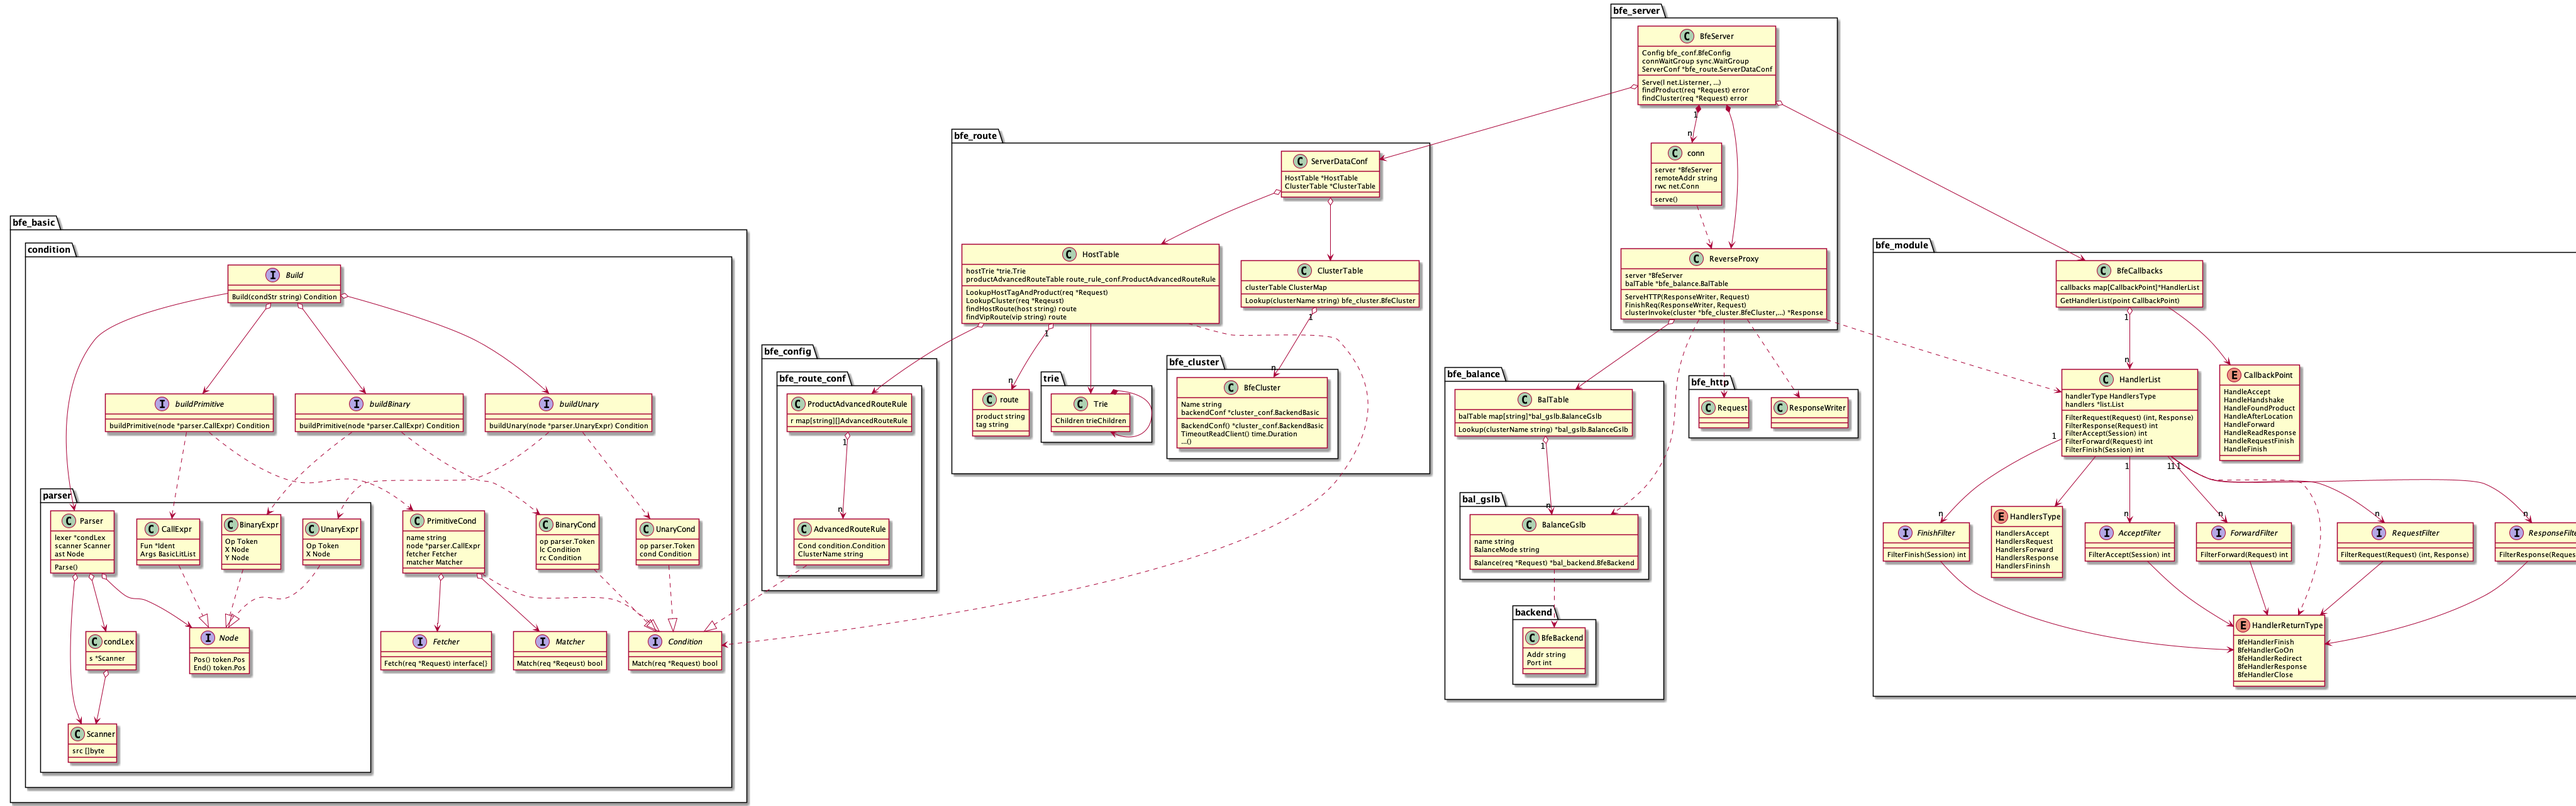
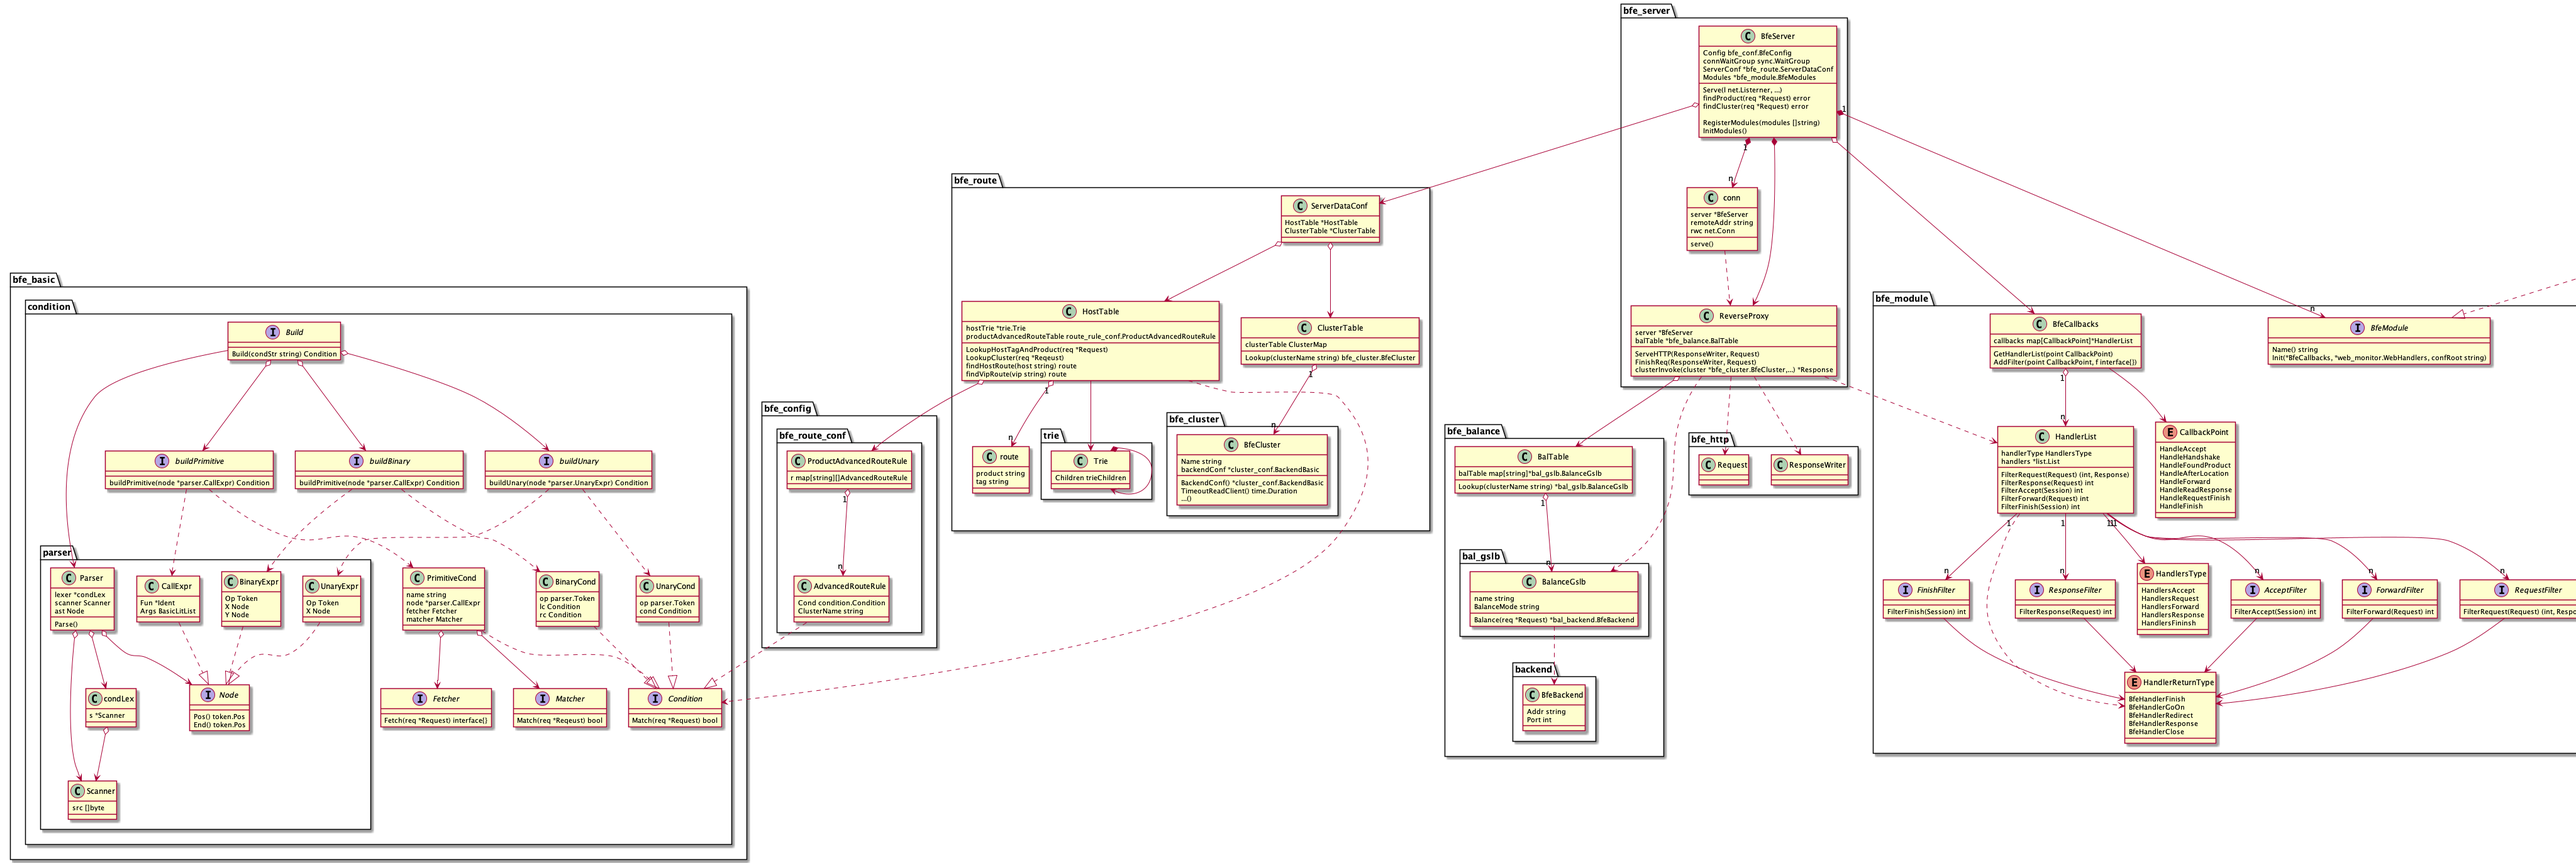
update bfe

diff --git a/api_gateway/API_Gateway.md b/api_gateway/API_Gateway.md
@@ -82,8 +82,15 @@
 
 ### 模块插件机制
 
-参考章节：[模块框架](https://github.com/baidu/bfe-book/blob/version1/implementation/model_framework/model_framework.md)
-代码模块：`bfe_module`
+**准备**
+
++ 参考章节：
+  + [模块插件机制](https://github.com/baidu/bfe-book/blob/version1/design/module/module.md)
+  + [模块框架](https://github.com/baidu/bfe-book/blob/version1/implementation/model_framework/model_framework.md)
+  + [如何开发BFE扩展模块](https://github.com/baidu/bfe-book/blob/version1/develop/how_to_write_module/how_to_write_module.md)
++ 代码模块
+  + `bfe_module`
+  + `bfe_modules`、`bfe_modules.mod_waf`
 
 **回调模型**
 
@@ -91,8 +98,149 @@ BFE通过*回调*来执行插件功能。
 
 + 回调框架(BfeCallbacks)
 + 回调点(CallbackPoint)
-+ 回调链(HandlerList)
++ 回调链(HandlerList)：实现上是个链表。
 + 回调(接口)类型：`RequestFilter`等5个回调接口。
++ 回调返回类型(没定义，暂且称之为HandlerReturnType)
+
+以下是`ReverseProxy.ServeHTTP`请求处理流程中，某个回调点的代码：
+
+```go
+	// ...
+
+	// Callback for HandleBeforeLocation
+	// srv.CallBacks是回调框架BfeCallbacks对象
+	// 获取回调点HandleBeforeLocation对应的回调链
+	hl = srv.CallBacks.GetHandlerList(bfe_module.HandleBeforeLocation)
+	if hl != nil {
+		// 依次执行回调(函数)
+		// 逻辑上，在特定回调点有特定的回调(接口)类型
+		retVal, res = hl.FilterRequest(basicReq)
+		basicReq.HttpResponse = res
+		// 根据回调返回类型进行处理
+		switch retVal {
+		case bfe_module.BfeHandlerClose:
+			// close the connection directly (with no response)
+			action = closeDirectly
+			return
+		case bfe_module.BfeHandlerFinish:
+			// close the connection after response
+			action = closeAfterReply
+			basicReq.BfeStatusCode = bfe_http.StatusInternalServerError
+			return
+		case bfe_module.BfeHandlerRedirect:
+			// ...
+```
+
+回调函数的添加实现(`AcceptFilter`示例)：
+
+```go
+// AddAcceptFilter adds accept filter to handler list.
+func (hl *HandlerList) AddAcceptFilter(f interface{}) error {
+	callback, ok := f.(func(session *bfe_basic.Session) int)
+	if !ok {
+		return fmt.Errorf("AddAcceptFilter():invalid callback func")
+	}
+
+	hl.handlers.PushBack(NewAcceptFilter(callback))
+	return nil
+}
+```
+
+上述的回调模型实现了模块可插拔，那么具体的功能模块该如何实现呢？我们继续来看。
+
+**模块**
+
+我们以非常重要的waf模块为例，深入研究一下模块内部的实现原理([WAF简介](https://zhuanlan.zhihu.com/p/97396469))。这部分内容可以按照以下3个部分进行梳理：
+
++ 模块配置
++ 回调的注册与实现
++ 模块状态
+
+waf模块配置示例：
+
+```json
+{
+    "Version": "2019-12-10184356",
+    "Config": {
+        "example_product": [
+            {
+                "Cond": "req_path_prefix_in(\"/rewrite\", false)",
+                "BlockRules": [
+	            "RuleBashCmd"
+                ]
+            }
+        ]
+    }
+}
+```
+
+大部分的模块功能都可以拆分为2部分，即：条件(`Cond`)、动作(`BlockRules`，在其它模块也叫`Actions`等)。那么，一个模块的逻辑可以描述为：如果命中条件，就执行动作。
+
+waf模块实现了`bfe_module.RequestFilter`回调：
+
+```go
+func (m *ModuleWaf) handleWaf(req *bfe_basic.Request) (int, *bfe_http.Response) {
+	// 获取RuleList
+	rules, ok := m.ruleTable.Search(req.Route.Product)
+	if !ok {
+		return bfe_module.BfeHandlerGoOn, nil
+	}
+	for _, rule := range *rules {
+		// 首先，判断条件是否命中
+		if !rule.Cond.Match(req) {
+			continue
+		}
+		m.state.CheckedReq.Inc(1)
+		// BlockRules - 拦截模式
+		for _, blockRule := range rule.BlockRules {
+			blocked, err := m.handler.HandleBlockJob(blockRule, req)
+			if err != nil {
+				m.state.BlockedRuleError.Inc(1)
+				log.Logger.Debug("ModuleWaf.handleWaf() block job err=%v, rule=%s", err, blockRule)
+				continue
+			}
+			if blocked {
+				req.ErrCode = ErrWaf
+				m.state.HitBlockedReq.Inc(1)
+				return bfe_module.BfeHandlerFinish, nil
+			}
+		}
+		// CheckRules - 观察模式
+		for _, checkRule := range rule.CheckRules {
+			// ...
+		}
+		break
+	}
+	return bfe_module.BfeHandlerGoOn, nil
+}
+```
+
+几个点：
+
++ 用到了我们之前介绍过的[条件表达式](#条件表达式)
++ waf规则的处理分为*拦截模式*(`BlockRules`)和*观察模式*(CheckRules)。这是因为waf规则上线通常需要先开启观察模式验证，后开启拦截模式拦截攻击流量。
++ waf模块状态`ModuleWafState`主要记录了各种规则命中的数据，用于统计。这个信息也非常重要，往往需要采集到后台进行统一监控。
+
+模块的注册是`bfe_module.BfeModule`接口中`Init`规定的，waf模块出了注册回调，还添加了监控。
+
+```go
+func (m *ModuleWaf) Init(cbs *bfe_module.BfeCallbacks, whs *web_monitor.WebHandlers, cr string) error {
+	// ...
+
+	// 回调注册
+	err = cbs.AddFilter(bfe_module.HandleFoundProduct, m.handleWaf)
+	if err != nil {
+		return fmt.Errorf("%s.Init(): AddFilter(m.handleWaf): %v", m.name, err)
+	}
+
+	err = web_monitor.RegisterHandlers(whs, web_monitor.WebHandleMonitor, m.monitorHandlers())
+	if err != nil {
+		return fmt.Errorf("%s.Init(): RegisterHandlers(m.monitorHandlers): %v", m.Name(), err)
+	}
+
+	// ...
+}
+```
 
 **实现细节**
 
@@ -133,7 +281,19 @@ func (t *HostTable) findHostRoute(host string) (route, error) {
 
 使用了一棵域名[前缀树](https://zhuanlan.zhihu.com/p/28891541)来查找，从根节点到叶子节点为一个完整域名。从根节点往下依次是各级[域名](https://baike.baidu.com/item/%E9%A1%B6%E7%BA%A7%E5%9F%9F%E5%90%8D/2152551)，到了叶子节点则是租户。
 
-查找算法：
+前缀树的结构：和普通的树区别在于节点的children使用了一个映射，key为前缀。
+
+```go
+type trieChildren map[string]*Trie
+
+type Trie struct {
+	Entry      interface{}
+	SplatEntry interface{} // to match xxx.xxx.*
+	Children   trieChildren
+}
+```
+
+根据完整域名(`path`)查找租户的算法：
 
 ```go
 func (t *Trie) Get(path []string) (entry interface{}, ok bool) {
@@ -190,9 +350,11 @@ func (t *HostTable) LookupCluster(req *bfe_basic.Request) error {
 
 ### 条件表达式
 
-参考章节：[BFE的路由转发机制—条件表达式](https://github.com/baidu/bfe-book/blob/version1/design/route/route.md)
-代码模块：`bfe_basic/condition`
-背景知识：[AST(抽象语法树)](https://juejin.cn/post/6844904035271573511)
+**准备**
+
++ 参考章节：[BFE的路由转发机制—条件表达式](https://github.com/baidu/bfe-book/blob/version1/design/route/route.md)
++ 代码模块：`bfe_basic/condition`
++ 背景知识：[AST(抽象语法树)](https://juejin.cn/post/6844904035271573511)
 
 **实现机制**
 
@@ -239,6 +401,35 @@ func Build(condStr string) (Condition, error) {
 
 + `parser`包*分析*部分的代码看起来像是基于`go`包改造的。
 + *条件原语*的实现：`condition.PrimitiveCond`又被拆分成`Matcher`和`Fetcher`的组合，它们分别负责参数的获取和匹配。这样可以方便将已有的对象迅速组合出新的原语。
+
+例如：
+
+```go
+// buildPrimitive builds primitive from PrimitiveCondExpr.
+// if failed, b.err is set to err, return Condition is nil
+// if success, b.err is nil
+func buildPrimitive(node *parser.CallExpr) (Condition, error) {
+	switch node.Fun.Name {
+	case "default_t":
+		return &DefaultTrueCond{}, nil
+	// ...
+	case "req_vip_in":
+		matcher, err := NewIpInMatcher(node.Args[0].Value)
+		if err != nil {
+			return nil, err
+		}
+		return &PrimitiveCond{
+			name:    node.Fun.Name,
+			node:    node,
+			fetcher: &VIPFetcher{},
+			matcher: matcher,
+		}, nil
+	case "req_vip_range":
+		// ...
+  }
+```
+
+有兴趣可以看看具体Matcher和Fetcher的实现。
 
 ### 规则
 

diff --git a/api_gateway/bfe/uml_bfe.md b/api_gateway/bfe/uml_bfe.md
@@ -161,15 +161,20 @@ package bfe_server {
         Config bfe_conf.BfeConfig
         connWaitGroup sync.WaitGroup
         ServerConf *bfe_route.ServerDataConf
+        Modules *bfe_module.BfeModules
 
         Serve(l net.Listerner, ...)
         findProduct(req *Request) error
         findCluster(req *Request) error
+
+        RegisterModules(modules []string)
+        InitModules()
     }
     BfeServer "1" *--> "n" conn
     BfeServer *--> ReverseProxy
     BfeServer o--> bfe_module.BfeCallbacks
     BfeServer o--> bfe_route.ServerDataConf
+    BfeServer "1" *--> "n" bfe_module.BfeModule
 
     class conn {
         server *BfeServer
@@ -203,10 +208,16 @@ package bfe_http {
 
 
 package bfe_module {
+    interface BfeModule {
+        Name() string
+        Init(*BfeCallbacks, *web_monitor.WebHandlers, confRoot string)
+    }
+
     class BfeCallbacks {
         callbacks map[CallbackPoint]*HandlerList
 
         GetHandlerList(point CallbackPoint)
+        AddFilter(point CallbackPoint, f interface{})
     }
     BfeCallbacks --> CallbackPoint
     BfeCallbacks "1" o--> "n" HandlerList
@@ -275,6 +286,42 @@ package bfe_module {
         BfeHandlerRedirect
         BfeHandlerResponse
         BfeHandlerClose
+    }
+}
+
+
+package mod_waf {
+    package waf_rule {
+        interface waf_rule.WafRule {
+            Init() error
+            Check(req *RuleRequestInfo) bool
+        }
+        class waf_rule.WafRuleTable {
+            rules map[string]WafRule
+            GetRule(ruleName string) WafRule
+        }
+        waf_rule.WafRuleTable "1" o--> "n" waf_rule.WafRule
+    }
+
+    class mod_waf.ModuleWaf {
+        name string
+        conf *ConfModWaf
+        handler *wafHandler
+        state ModuleWafState
+        ruleTable *WarRuleTable
+        metrics metrics.Metrics
+
+        handleWaf(req *Request) (int, *Response)
+    }
+    mod_waf.ModuleWaf ..|> bfe_module.BfeModule
+    mod_waf.ModuleWaf ..|> bfe_module.RequestFilter
+    mod_waf.ModuleWaf o--> waf_rule.WafRuleTable
+    mod_waf.ModuleWaf o--> mod_waf.ModuleWafState
+
+    class mod_waf.ModuleWafState {
+        CheckedReq *metrics.Counter
+        HitBlockedReq  *metrics.Counter
+        ...
     }
 }
 
